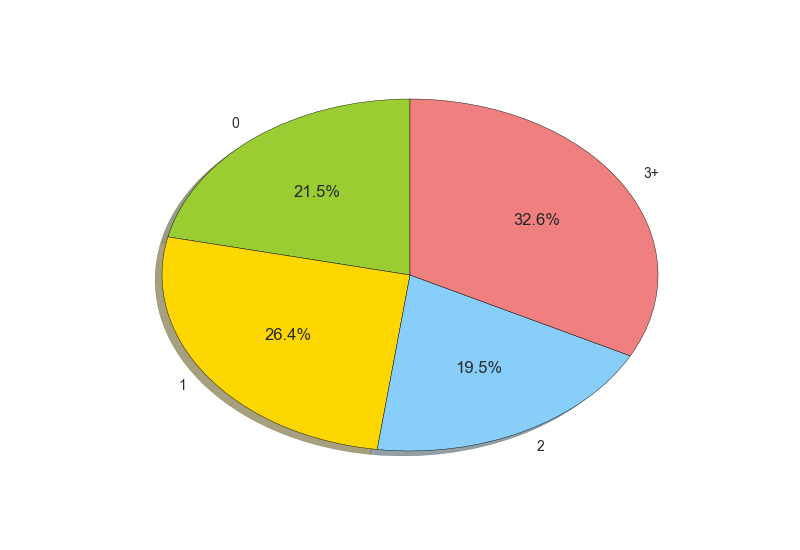
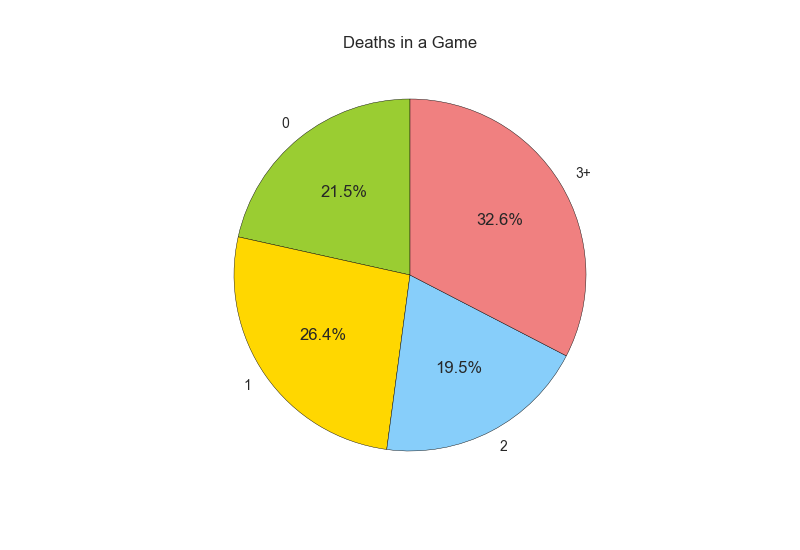
updates

diff --git a/deaths.html b/deaths.html
@@ -55,6 +55,15 @@
             deaths.
         </div>
 
+        <div class="container">
+            <div class="row">
+                <div class="col-md-4">
+                    <img src="./content/images/death_pie.png" , width: 100%; height: auto; border="0">
+                </div>
+            </div>
+            Here is a pie chart showing how many games have had 0, 1, 2, or 3+ deaths.
+        </div>
+
 
     </div>
 </div>
